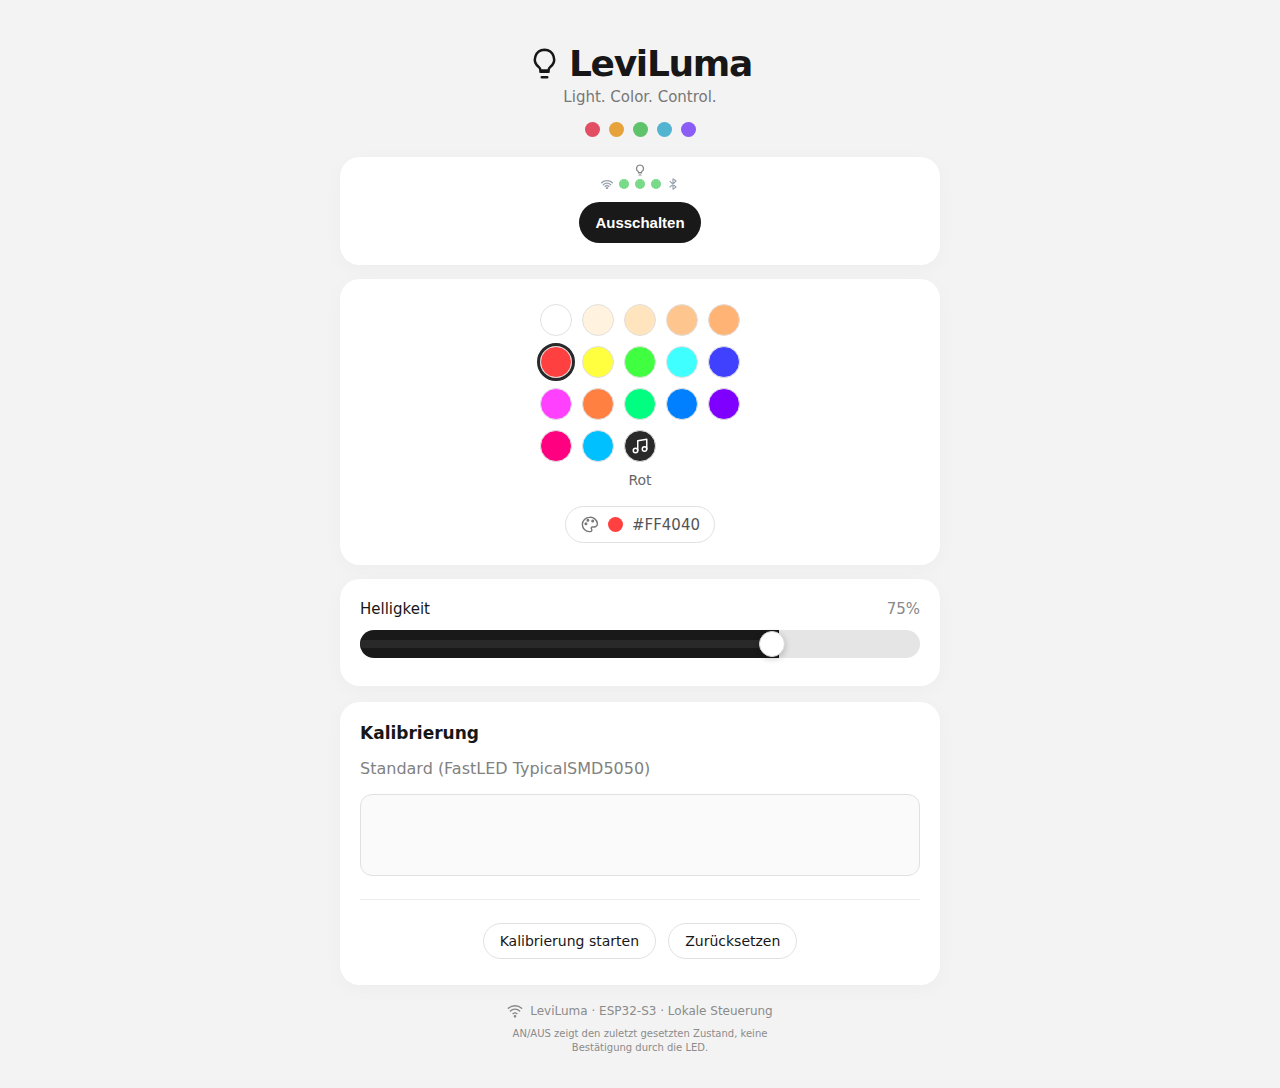
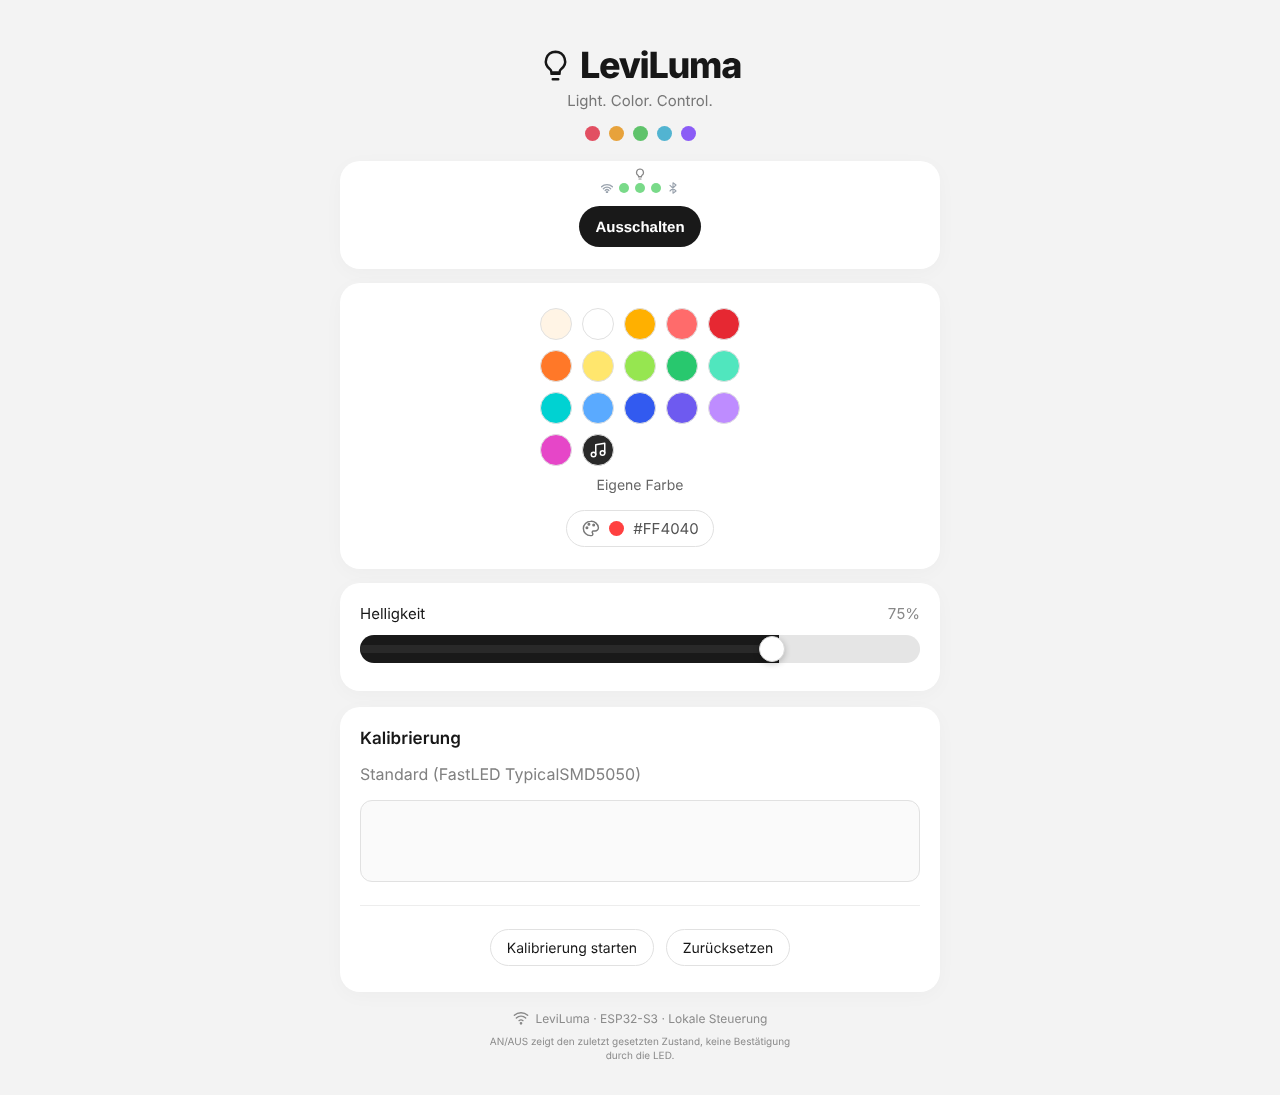
Farbwaehler: neue Standardpalette mit 16 benannten Farben
Die Standardfarben sind auf den dunklen Hintergrund abgestimmt und
greifen Koralle und Gelb der Farbabstimmung auf. Namen sind kurz und
deutsch. Screenshots der LCD- und Web-UI und Dokumentation angepasst.

Claude-Session: https://claude.ai/code/session_01XLaKkGhMqU82qXdsv9t5qw

diff --git a/include/Palette.h b/include/Palette.h
@@ -10,23 +10,22 @@
 
 #ifndef LEVI_PICKER_LIST
 #define LEVI_PICKER_LIST \
+  LEVI_PICKER_ENTRY("Warmweiß", 255, 244, 229), \
   LEVI_PICKER_ENTRY("Weiß", 255, 255, 255), \
-  LEVI_PICKER_ENTRY("Warmweiß", 255, 243, 224), \
-  LEVI_PICKER_ENTRY("Creme", 255, 228, 189), \
-  LEVI_PICKER_ENTRY("Pfirsich", 255, 197, 143), \
-  LEVI_PICKER_ENTRY("Apricot", 255, 180, 117), \
-  LEVI_PICKER_ENTRY("Rot", 255, 64, 64), \
-  LEVI_PICKER_ENTRY("Gelb", 255, 255, 64), \
-  LEVI_PICKER_ENTRY("Hellgrün", 64, 255, 64), \
-  LEVI_PICKER_ENTRY("Türkis", 64, 255, 255), \
-  LEVI_PICKER_ENTRY("Blau", 64, 64, 255), \
-  LEVI_PICKER_ENTRY("Magenta", 255, 64, 255), \
-  LEVI_PICKER_ENTRY("Orange", 255, 128, 64), \
-  LEVI_PICKER_ENTRY("Mint", 0, 255, 128), \
-  LEVI_PICKER_ENTRY("Azurblau", 0, 128, 255), \
-  LEVI_PICKER_ENTRY("Violett", 128, 0, 255), \
-  LEVI_PICKER_ENTRY("Pink", 255, 0, 128), \
-  LEVI_PICKER_ENTRY("Himmelblau", 0, 192, 255)
+  LEVI_PICKER_ENTRY("Bernstein", 255, 176, 0), \
+  LEVI_PICKER_ENTRY("Koralle", 255, 107, 107), \
+  LEVI_PICKER_ENTRY("Rot", 230, 40, 50), \
+  LEVI_PICKER_ENTRY("Orange", 255, 120, 40), \
+  LEVI_PICKER_ENTRY("Gelb", 255, 230, 109), \
+  LEVI_PICKER_ENTRY("Limette", 150, 230, 80), \
+  LEVI_PICKER_ENTRY("Smaragd", 40, 200, 110), \
+  LEVI_PICKER_ENTRY("Mint", 80, 230, 190), \
+  LEVI_PICKER_ENTRY("Türkis", 0, 210, 210), \
+  LEVI_PICKER_ENTRY("Himmelblau", 90, 170, 255), \
+  LEVI_PICKER_ENTRY("Königsblau", 50, 90, 240), \
+  LEVI_PICKER_ENTRY("Indigo", 110, 90, 240), \
+  LEVI_PICKER_ENTRY("Flieder", 190, 140, 255), \
+  LEVI_PICKER_ENTRY("Magenta", 230, 70, 200)
 #endif
 
 namespace LeviPalette {

diff --git a/include/Config.example.h b/include/Config.example.h
@@ -43,7 +43,7 @@
 // Unabhaengig von der Kalibrierung. Standard: 17 Farben der Web-UI (Weiss bis Cyan, siehe Palette.h).
 // Farbset des Farbwaehlers (LCD und Web-UI). Eintraege: LEVI_PICKER_ENTRY("Name", R, G, B),
 // 1 bis 24 Stueck, Name hoechstens 15 Zeichen. Unabhaengig von der Kalibrierung.
-// Standard: 17 benannte Farben (siehe Palette.h).
+// Standard: 16 benannte Farben (siehe Palette.h).
 // #define LEVI_PICKER_LIST \
 //   LEVI_PICKER_ENTRY("Warmweiß", 255, 243, 224), \
 //   LEVI_PICKER_ENTRY("Rot", 255, 64, 64), \

diff --git a/AGENTS.md b/AGENTS.md
@@ -11,7 +11,7 @@ LeviLuma steuert einen LED-Strip der ELK-/Lotus-Lantern-Familie über BLE (Servi
 - **LCD-UI** auf dem Display des Boards (LVGL, Touch).
 - **Web-UI** im WLAN, erreichbar unter `leviluma.local` (mDNS) oder über die IP.
 
-Gesteuert werden: Ein/Aus, Helligkeit (1–100 %), Farbe (Farbset aus `LEVI_PICKER_LIST` mit Namen, Standard 17 Farben, und freie RGB-Werte), Musikmodus (Mikrofon) und eine Kalibrierung der Farben über die Web-UI.
+Gesteuert werden: Ein/Aus, Helligkeit (1–100 %), Farbe (Farbset aus `LEVI_PICKER_LIST` mit Namen, Standard 16 Farben, und freie RGB-Werte), Musikmodus (Mikrofon) und eine Kalibrierung der Farben über die Web-UI.
 
 ## Hardware
 
